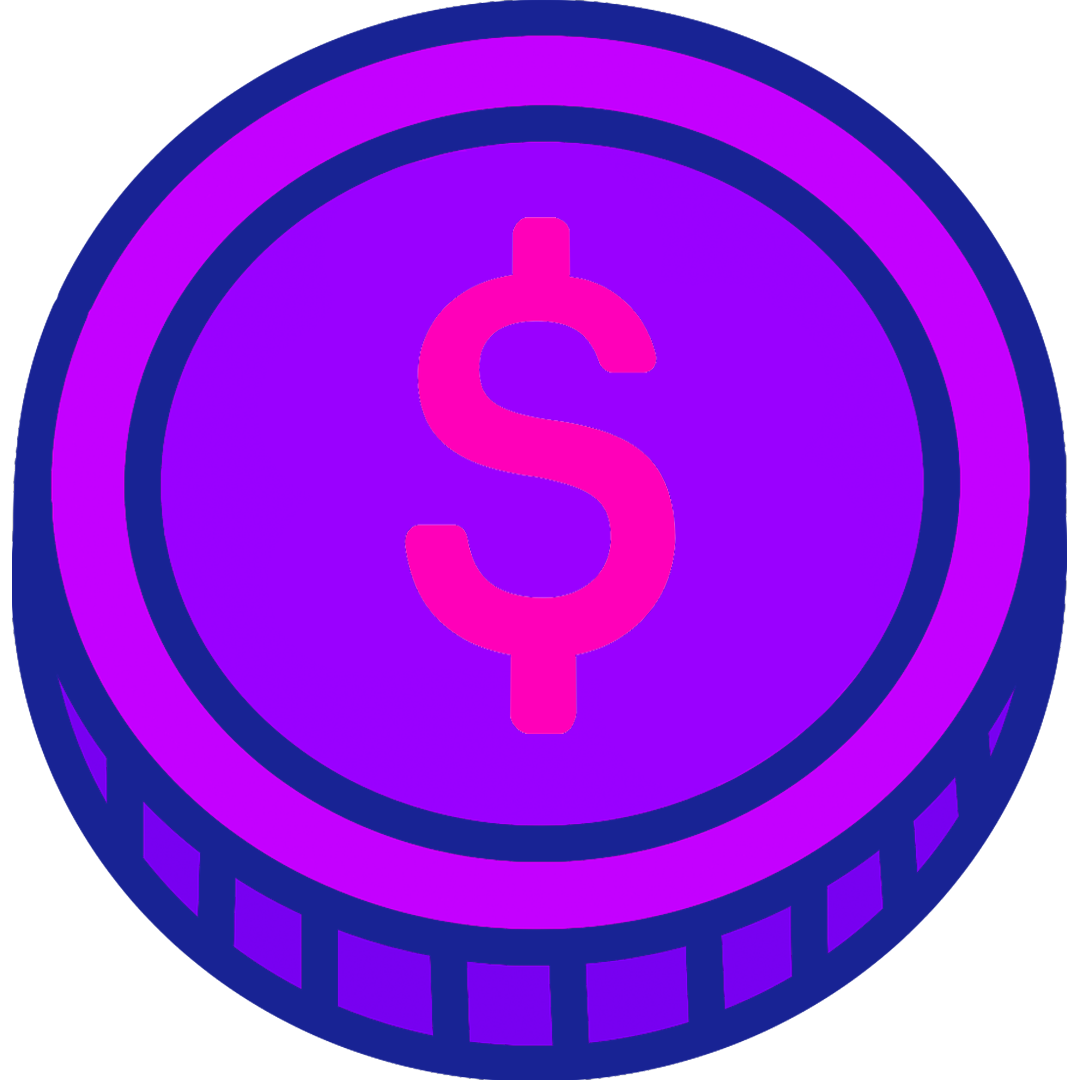
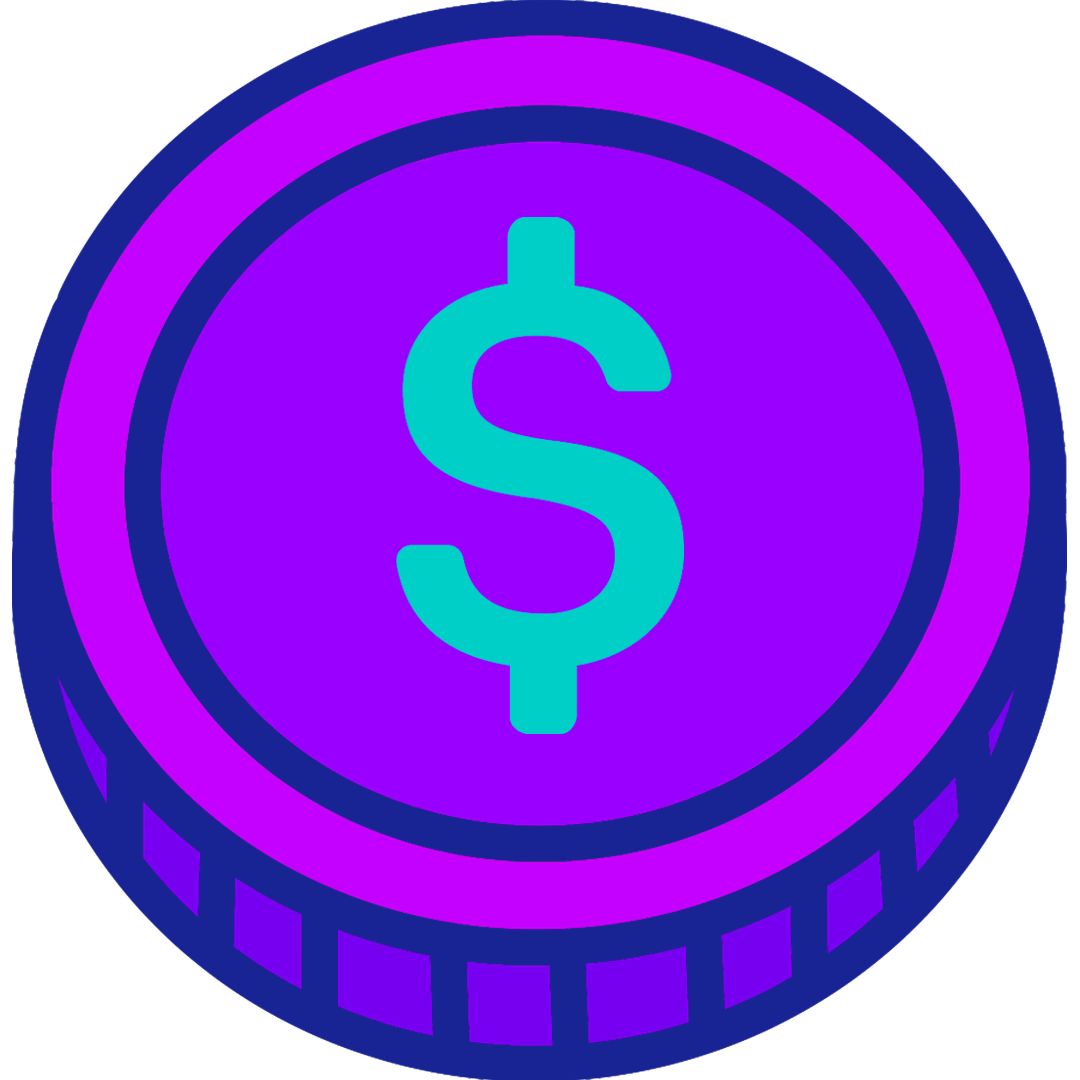
feat: chain coin face image based on network

Changed region(s): [[0.3667, 0.1833, 0.6417, 0.7028]]

diff --git a/src/components/pages/coinflip/CoinFlipFaceSelection/CoinSelectable.tsx b/src/components/pages/coinflip/CoinFlipFaceSelection/CoinSelectable.tsx
@@ -1,10 +1,6 @@
-import Image from 'next/image';
 import React from 'react';
 
-import useIsMobile from '@/hooks/useIsMobile';
-
-import coinHeads from '../../../../../public/images/coin-heads.png';
-import coinTails from '../../../../../public/images/coin-tails.png';
+import CoinImage from '@/components/pages/coinflip/CoinFlipFaceSelection/CoinImage';
 
 import { CoinFace } from '@/types';
 
@@ -17,10 +13,7 @@ interface CoinPropsType {
 // Animation taken from CodePen: https://codepen.io/bill0x2A/pen/LYbqZJj
 const Coin = (props: CoinPropsType) => {
   const { coinFace, playerCoinFaceChoice, setPlayerCoinFaceChoice } = props;
-  const isMobile = useIsMobile();
   const isCoinFaceSelectedByPlayer = coinFace === playerCoinFaceChoice;
-  const imageSize = isMobile ? '80px' : '150px';
-  const imageSrc = coinFace === CoinFace.HEADS ? coinHeads : coinTails;
   const coinFaceText = coinFace === CoinFace.HEADS ? 'Heads' : 'Tails';
 
   if (!isCoinFaceSelectedByPlayer) {
@@ -30,18 +23,18 @@ const Coin = (props: CoinPropsType) => {
           className='relative flex h-[80px] w-[80px] cursor-pointer flex-col items-center justify-center rounded-[100%] transition duration-500 md:h-[150px] md:w-[150px]'
           onClick={() => setPlayerCoinFaceChoice(coinFace)}
         >
-          <Image src={imageSrc} layout='fixed' height={imageSize} width={imageSize} alt={coinFaceText} />
+          <CoinImage coinFace={coinFace} />
         </div>
-        <p className='mt-3 font-extrabold uppercase text-white'>Pick {coinFaceText}</p>
+        <p className='mt-6 font-extrabold uppercase text-white'>Pick {coinFaceText}</p>
       </div>
     );
   }
 
   return (
-    <div className='mx-8 mb-[-15px] flex flex-col items-center justify-center md:mx-20 md:mb-[-45px]'>
+    <div className='mx-8 mt-9 flex flex-col items-center justify-center md:mx-20 md:mb-20'>
       <div className='animated-coin relative flex h-[80px] w-[80px] cursor-pointer flex-col items-center justify-center rounded-full transition duration-500 md:h-[150px] md:w-[150px]'>
         <div className='relative flex cursor-pointer flex-col items-center justify-center overflow-hidden rounded-[100%]'>
-          <Image src={imageSrc} layout='fixed' height={imageSize} width={imageSize} alt={coinFaceText} />
+          <CoinImage coinFace={coinFace} />
           <div className='animated-coin-shine absolute top-0 left-0 h-[10px] w-[200px] rotate-[25deg] bg-white/25  md:h-[30px] md:w-[200px]' />
         </div>
         <div className='animated-coin-flash absolute right-[10px] top-[20px] h-[5px] w-[5px] bg-white md:h-[10px] md:w-[10px]' />

diff --git a/src/components/pages/coinflip/CoinFlipFaceSelection/CoinImage.tsx b/src/components/pages/coinflip/CoinFlipFaceSelection/CoinImage.tsx
@@ -1,0 +1,75 @@
+import { MoonbaseAlpha, Moonriver } from '@usedapp/core';
+import Image from 'next/image';
+import React from 'react';
+
+import useIsMobile from '@/hooks/useIsMobile';
+
+import { useCurrentNetworkContext } from '@/contexts/CurrentNetwork';
+
+import coinHeads from '../../../../../public/images/coin-heads.png';
+import coinHeadsMoonbaseAlpha from '../../../../../public/images/coin-heads-moonbase-alpha.png';
+import coinHeadsMoonriver from '../../../../../public/images/coin-heads-moonriver.png';
+import coinTails from '../../../../../public/images/coin-tails.png';
+import coinTailsMoonbaseAlpha from '../../../../../public/images/coin-tails-moonbase-alpha.png';
+import coinTailsMoonriver from '../../../../../public/images/coin-tails-moonriver.png';
+
+import { CoinFace } from '@/types';
+
+interface CoinImagePropsStyle {
+  coinFace: CoinFace;
+  height?: number;
+  width?: number;
+}
+
+const CoinImage = (props: CoinImagePropsStyle) => {
+  const isMobile = useIsMobile();
+  const { coinFace, height, width } = props;
+  const { currentNetwork } = useCurrentNetworkContext();
+  const defaultImageSize = isMobile ? '80px' : '150px';
+  const imageWidth = height || defaultImageSize;
+  const imageHeight = width || defaultImageSize;
+
+  if (coinFace === CoinFace.HEADS) {
+    return (
+      <Image
+        src={getHeadsCoinFaceImage(currentNetwork.network.chainId)}
+        layout='fixed'
+        height={`${imageHeight}px`}
+        width={`${imageWidth}px`}
+        alt='Heads'
+      />
+    );
+  }
+
+  return (
+    <Image
+      src={getTailsCoinFaceImage(currentNetwork.network.chainId)}
+      layout='fixed'
+      height={`${imageHeight}px`}
+      width={`${imageWidth}px`}
+      alt='Tails'
+    />
+  );
+};
+
+function getHeadsCoinFaceImage(chaindId?: number) {
+  if (chaindId === MoonbaseAlpha.chainId) {
+    return coinHeadsMoonbaseAlpha;
+  }
+  if (chaindId === Moonriver.chainId) {
+    return coinHeadsMoonriver;
+  }
+  return coinHeads;
+}
+
+function getTailsCoinFaceImage(chaindId?: number) {
+  if (chaindId === MoonbaseAlpha.chainId) {
+    return coinTailsMoonbaseAlpha;
+  }
+  if (chaindId === Moonriver.chainId) {
+    return coinTailsMoonriver;
+  }
+  return coinTails;
+}
+
+export default CoinImage;

diff --git a/src/components/pages/coinflip/CoinFlipFaceSelection/CoinFlipping.tsx b/src/components/pages/coinflip/CoinFlipFaceSelection/CoinFlipping.tsx
@@ -1,23 +1,18 @@
-import Image from 'next/image';
 import React from 'react';
 
-import useIsMobile from '@/hooks/useIsMobile';
+import CoinImage from '@/components/pages/coinflip/CoinFlipFaceSelection/CoinImage';
 
-import coinHeads from '../../../../../public/images/coin-heads.png';
-import coinTails from '../../../../../public/images/coin-tails.png';
+import { CoinFace } from '@/types';
 
 const CoinFlipping = () => {
-  const isMobile = useIsMobile();
-  const imageSize = isMobile ? '80px' : '150px';
-
   return (
-    <div className='mx-8 mb-[-15px] flex flex-col items-center justify-center md:mx-20 md:mb-[-45px]'>
-      <div className='animated-coin relative flex h-[80px] w-[80px] flex-col items-center justify-center rounded-full md:h-[150px] md:w-[150px]'>
+    <div className='mx-8 mt-14 flex flex-col items-center justify-center md:mx-20 md:mb-20'>
+      <div className='animated-coin-flip relative flex h-[80px] w-[80px] flex-col items-center justify-center rounded-full md:h-[150px] md:w-[150px]'>
         <div className='animated-coin-heads absolute flex h-[80px] w-[80px] flex-col items-center justify-center rounded-full backface-hidden md:h-[150px] md:w-[150px]'>
-          <Image src={coinTails} layout='fixed' height={imageSize} width={imageSize} alt='Heads' />
+          <CoinImage coinFace={CoinFace.HEADS} />
         </div>
         <div className='animated-coin-tails absolute flex h-[80px] w-[80px] flex-col items-center justify-center rounded-full backface-hidden md:h-[150px] md:w-[150px]'>
-          <Image src={coinHeads} layout='fixed' height={imageSize} width={imageSize} alt='Tails' />
+          <CoinImage coinFace={CoinFace.TAILS} />
         </div>
       </div>
       <div className='animated-coin-shadow mt-3 h-[10px] w-[60px] rounded-[100%] bg-white/5 md:mt-10 md:h-[25px] md:w-[120px]'></div>

diff --git a/src/components/pages/coinflip/CoinFlipLastSalesTable.tsx b/src/components/pages/coinflip/CoinFlipLastSalesTable.tsx
@@ -1,16 +1,13 @@
 /* eslint-disable @typescript-eslint/no-explicit-any */
 import { shortenAddress } from '@usedapp/core';
-import Image from 'next/image';
 import React, { useEffect, useState } from 'react';
 
+import CoinImage from '@/components/pages/coinflip/CoinFlipFaceSelection/CoinImage';
 import { CoinFlipTransactionType, getCoinFlipTransactionHistory } from '@/components/pages/coinflip/utils';
 import Table from '@/components/Table';
 import { TableRowType } from '@/components/Table/TableRow';
 
 import { useCurrentNetworkContext } from '@/contexts/CurrentNetwork';
-
-import coinHeads from '../../../../public/images/coin-heads.png';
-import coinTails from '../../../../public/images/coin-tails.png';
 
 import { CoinFace } from '@/types';
 
@@ -68,18 +65,10 @@ const CoinFlipLastSalesTable = () => {
         {
           value: transaction.choice,
           transformation: (value: CoinFace) => {
-            return value === CoinFace.HEADS ? (
-              <Image src={coinHeads} layout='fixed' height='40px' width='40px' alt='' />
-            ) : (
-              <Image src={coinTails} layout='fixed' height='40px' width='40px' alt='' />
-            );
+            return <CoinImage coinFace={value} height={40} width={40} />;
           },
           transformationMobile: (value: CoinFace) => {
-            return value === CoinFace.HEADS ? (
-              <Image src={coinHeads} layout='fixed' height='25px' width='25px' alt='' />
-            ) : (
-              <Image src={coinTails} layout='fixed' height='25px' width='25px' alt='' />
-            );
+            return <CoinImage coinFace={value} height={25} width={25} />;
           },
         },
       ],

diff --git a/src/components/pages/coinflip/CoinFlipInfoCards.tsx b/src/components/pages/coinflip/CoinFlipInfoCards.tsx
@@ -46,18 +46,18 @@ const CoinFlipInfoCards = () => {
       Draws are set to a <span className='text-${colorAccent}'> 50/50</span> chance of HEADS or TAILS winning.
     </>,
     <>
-      If you picked the <span className='text-${colorAccent}'>same face as the one fliped</span>, you win and you get
-      back double your {currentNetwork.currencySymbol} in the same transaction.
+      Pick the <span className='text-${colorAccent}'>same face as the one the smart contract flips</span>, and you win
+      the coin flip. If you win, the smart contract sends you back double your bet amount during the same transaction.
     </>,
     <>
-      If you picked the <span className='text-${colorAccent}'>opposite face as the one fliped</span>, you lost and the
-      smart contract keeps your {currentNetwork.currencySymbol}.
+      Pick the <span className='text-${colorAccent}'>opposite face as the one the smart contract flips</span>, and you
+      lose the coin flip. If you lose, the smart contract keeps your bet.
     </>,
     <>
       <span className='text-${colorAccent}'>
         The bigger the smart contract balance, the bigger the allowed bet amount
       </span>
-      . This is so the pool does not get emptied after a few lucky flips in a row.
+      . This is so the smart contract balance does not get emptied after a few lucky flips in a row.
     </>,
   ];
 

diff --git a/src/components/pages/coinflip/CoinFlipFaceSelection/index.tsx b/src/components/pages/coinflip/CoinFlipFaceSelection/index.tsx
@@ -1,7 +1,7 @@
 import React from 'react';
 
-import Coin from '@/components/pages/coinflip/CoinFlipFaceSelection/Coin';
 import CoinFlipping from '@/components/pages/coinflip/CoinFlipFaceSelection/CoinFlipping';
+import Coin from '@/components/pages/coinflip/CoinFlipFaceSelection/CoinSelectable';
 
 import { useCoinFlipContext } from '@/contexts/CoinFlipContext';
 
@@ -17,7 +17,7 @@ const CoinFlipFaceSelection = (props: CoinFlipFaceSelectionPropsType) => {
 
   return (
     <div className='layout flex flex-col items-center justify-center'>
-      <div className='my-16 flex flex-row items-center justify-center md:my-24'>
+      <div className='md:b-20 mb-3 mt-14 flex flex-row items-center justify-center md:mt-36'>
         {isTransactionPending ? (
           <CoinFlipping />
         ) : (

diff --git a/src/components/pages/coinflip/CoinFlipBetAmountButton.tsx b/src/components/pages/coinflip/CoinFlipBetAmountButton.tsx
@@ -30,11 +30,11 @@ const CoinFlipBetAmountButton = (props: CoinFlipBetAmountButtonPropsType) => {
   const onButtonClick = () => {
     if (doesSCHasInsufficiantBalanceForBet) {
       toast.dark(`Insufficient smart contract balance to allow this bet amount`, {
-        type: toast.TYPE.ERROR,
+        type: toast.TYPE.WARNING,
       });
     } else if (doesPlayerHasInsufficiantBalanceForBet) {
       toast.dark(`Insufficient ${currentNetwork.currencySymbol} balance in your account`, {
-        type: toast.TYPE.ERROR,
+        type: toast.TYPE.WARNING,
       });
     } else {
       setCurrentSelectedBetAmount(betAmount);

diff --git a/src/styles/globals.css b/src/styles/globals.css
@@ -131,6 +131,9 @@
   .animated-coin-shadow {
     animation: scaling 2.6s infinite ease-in-out;
   }
+  .animated-coin-flip {
+    animation: scaling-flip 2.6s infinite ease-in-out;
+  }
   .animated-coin-shine {
     animation: shine 5s infinite;
   }
@@ -272,6 +275,15 @@
     50% {
       animation-timing-function: ease-out;
       transform: translateY(-80px);
+    }
+  }
+  @keyframes scaling-flip {
+    20% {
+      transform: translateY(-80px);
+    }
+
+    50% {
+      transform: translateY(-140px) scale(0.9);
     }
   }
 }

diff --git a/README.md b/README.md
@@ -2,40 +2,40 @@
 
 # What is MoonVegas?
 
-MoonVegas is a platform to play the following games:
+MoonVegas is a platform for playing the following games powered by EVM smart contracts:
 
-- **Raffle**: buy one or more tickets, when all tickets are sold a random ticket is picked at random and all the funds accumulated get transfered to the winner. The raffle then resets itself automatically. [View game](https://www.moonvegas.app/).
-- **Coin flip**: pick either heads or tail, select a bet amount. A coin is flipped at random, if the outcome is the one you picked you get double your bet, otherwise the smart contract keeps it. [View game](https://www.moonvegas.app/coinflip).
+- **Raffle**: Buy one or more tickets. When all tickets are sold, a random ticket is picked at random, and all the funds accumulated are transferred to the winner. The raffle then resets itself automatically. [View game](https://www.moonvegas.app/).
+- **Coin flip**: Pick either heads or tails, select a bet amount. A coin is flipped at random. If the outcome is the one you picked, you get double your bet. Otherwise, the smart contract keeps it. [View game](https://www.moonvegas.app/coinflip).
 
-It is build using Solidity (smart contract as backend) and React + NextJS (frontend).
+It is built using Solidity (smart contract as the backend) and React + NextJS (frontend).
 
-# Developer guide
+# Developer Guide
 
-## Setup Environment Variables
+## Setting Up Environment Variables
 
-First setup the `.env` file. Use the `.env.example` as a reference.
+First, set up the `.env` file. Use the `.env.example` as a reference.
 
-You will also need an account with tokens to make transactions on the network you are connected to (deploy smartcontract, interact with them).
+You will also need an account with tokens to make transactions on the network you are connected to (deploy smart contract, interact with it).
 
-1. Create a `secrets.json` in the `hardhat` directory.
-1. Find your private key from Metamask. If you don't know how to find them, follow [this guide](https://metamask.zendesk.com/hc/en-us/articles/360015289632-How-to-export-an-account-s-private-key#:~:text=On%20the%20account%20page%2C%20click,click%20%E2%80%9CConfirm%E2%80%9D%20to%20proceed.).
+1. Create a `secrets.json` file in the `hardhat` directory.
+1. Find your private key from MetaMask. If you don't know how to find it, follow [this guide](https://metamask.zendesk.com/hc/en-us/articles/360015289632-How-to-export-an-account-s-private-key#:~:text=On%20the%20account%20page%2C%20click,click%20%E2%80%9CConfirm%E2%80%9D%20to%20proceed.).
 1. Add your private key to the `secrets.json` file you just created (use the `hardhat/secrets.example.json` as an example).
 
-## Setup SmartContract development environment (MacOS)
+## Setting Up Smart Contract Development Environment (MacOS)
 
-There are 2 ways to deploy the smart contracts, either you can **run a node locally** or you can **use a testnet**, like Moonbeam's testnet Moonbase Alpha.
+There are two ways to deploy the smart contracts: either run a node locally or use Moonbeam's testnet: Moonbase Alpha.
 
-> **Warning**: The smart contracts tests are a bit flaky (fails ~1/10 times). This is due to the randomness of the games. If they fail, it will most likely work on a second try.
+> **Warning**: The smart contract tests are a bit flaky (fail ~1/10 times). This is due to the randomness of the games. If they fail, it will most likely work on a second try.
 
 <details>
 <summary>Locally</summary>
 
-First set the environment variable `NEXT_PUBLIC_ENV` to `localhost` in the `.env` you created above, to target the local node.
+First, set the environment variable `NEXT_PUBLIC_ENV` to `localhost` in the `.env` file you created above, to target the local node.
 
-Then, we need to use [Docker](https://docs.docker.com/desktop/install/mac-install/). Once docker is installed, we can setup a Moonbeam node locally with the following commands:
+Then, you need to use [Docker](https://docs.docker.com/desktop/install/mac-install/). Once Docker is installed, you can set up a Moonbeam node locally with the following commands:
 
 ```bash
-docker pull purestake/moonbeam:v0.25.0 # Download Moonbeam docker image (only run this command the first time)
+docker pull purestake/moonbeam:v0.25.0 # Download Moonbeam Docker image (only run this command the first time)
 docker run --rm --name moonbeam_development -p 9944:9944 -p 9933:9933 purestake/moonbeam:v0.25.0 --dev --ws-external --rpc-external # Run the node
 ```
 
@@ -53,20 +53,20 @@ yarn run deploy:localhost --raffleticketprice 1 --coinflippoolamount 5 # Deploy 
 <details>
 <summary>Testnet (Moonbase Alpha)</summary>
 
-First set the environment variable `NEXT_PUBLIC_ENV` to `development` in the `.env` you created above, to target the testnet.
+First, set the environment variable `NEXT_PUBLIC_ENV` to `development` in the `.env` file you created earlier, to target the testnet.
 
 Then, deploy the smart contracts to testnet:
 
 ```bash
 cd hardhat # All the smart contracts files are located in the ./hardhat directory
 yarn install # Install dependencies
-yarn run compile # Compile the smart contracts anytime you modify them, this also runs the tests
-yarn run deploy:moonbase --raffleticketprice 1 --coinflippoolamount 5 # Deploy the compiled Smart Contracts to the node running locally
+yarn run compile # Compile the smart contracts anytime you modify them. Yhis also runs the tests
+yarn run deploy:moonbase --raffleticketprice 1 --coinflippoolamount 5 # Deploy the compiled Smart Contracts to the Moonbase Alpha testnet
 ```
 
 </details>
 
-## Setup Frontend development environment
+## Setup Frontend Development Environment
 
 Run the development server:
 
@@ -75,14 +75,13 @@ yarn install # Install dependencies
 yarn dev # Run front-end locally
 ```
 
-Open http://localhost:3000 with your browser to see the result.
+Open http://localhost:3000 with your browser to view.
 
 ## FAQ
 
 <details>
 
 <summary> How to get localhost tokens?</summary>
-
-If you are working on the localhost environment and running your own node locally (ref: _Setup SmartContract development environment (MacOS)_ section), you can get accounts with preloaded tokens by using any of the [Pre-funded Development Accounts from the Moonbeam doc](https://docs.moonbeam.network/builders/get-started/networks/moonbeam-dev/#pre-funded-development-accounts). Simply add one of the private keys to your MetaMask.
+If you are working on the localhost environment and running your own node locally (refer to the "Setup Smart Contract Development Environment" section), you can get an account with preloaded tokens by using any of the [Pre-funded Development Accounts from the Moonbeam documentation](https://docs.moonbeam.network/builders/get-started/networks/moonbeam-dev/#pre-funded-development-accounts).
 
 </details>
